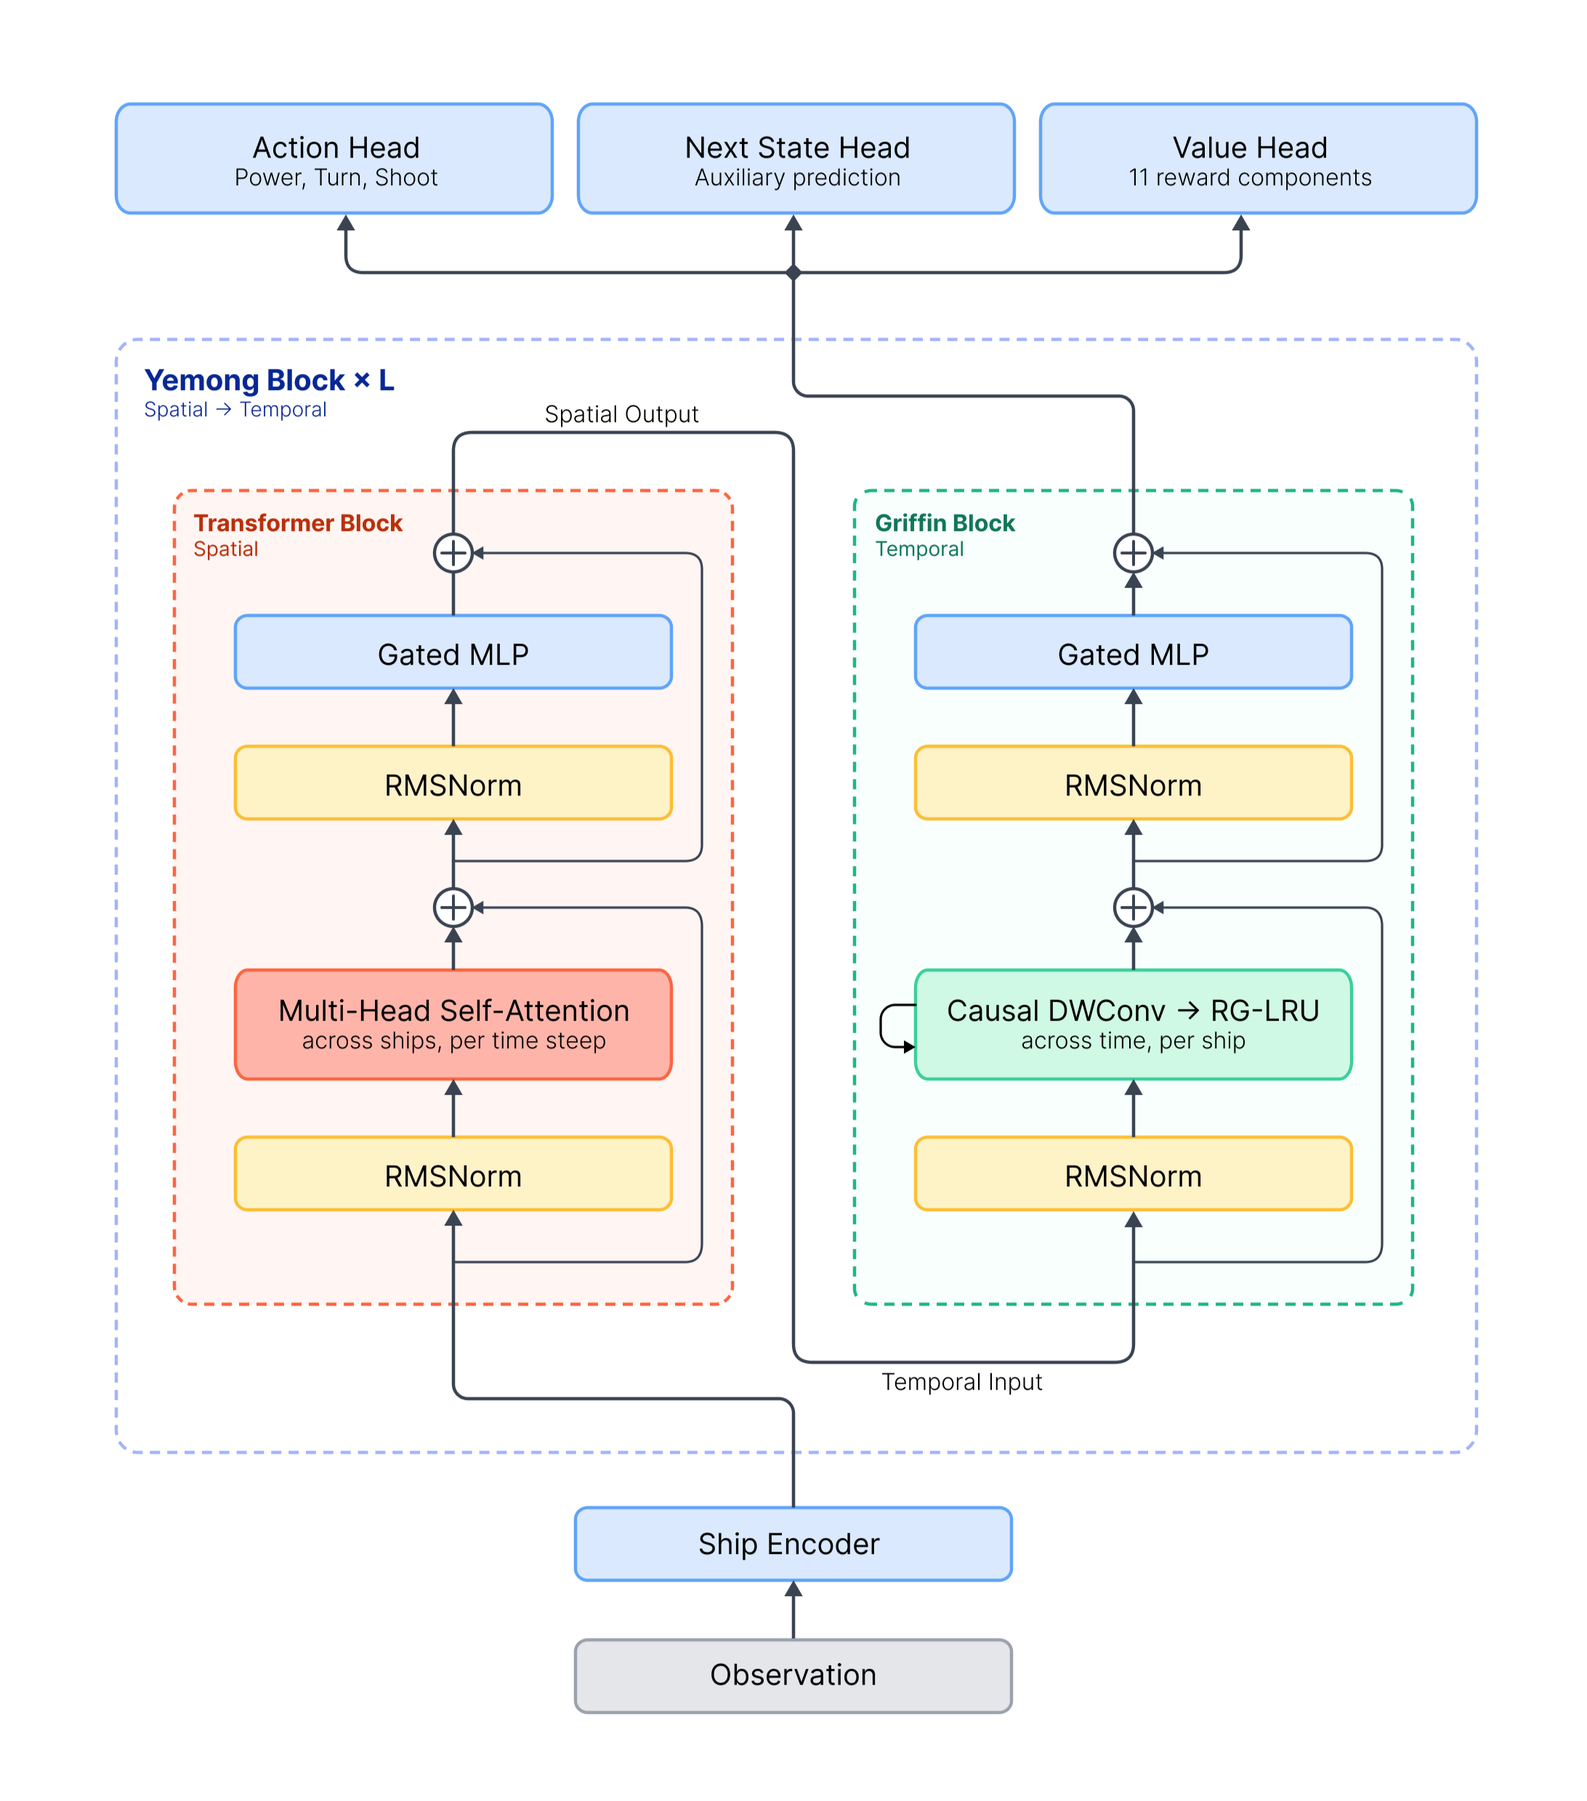
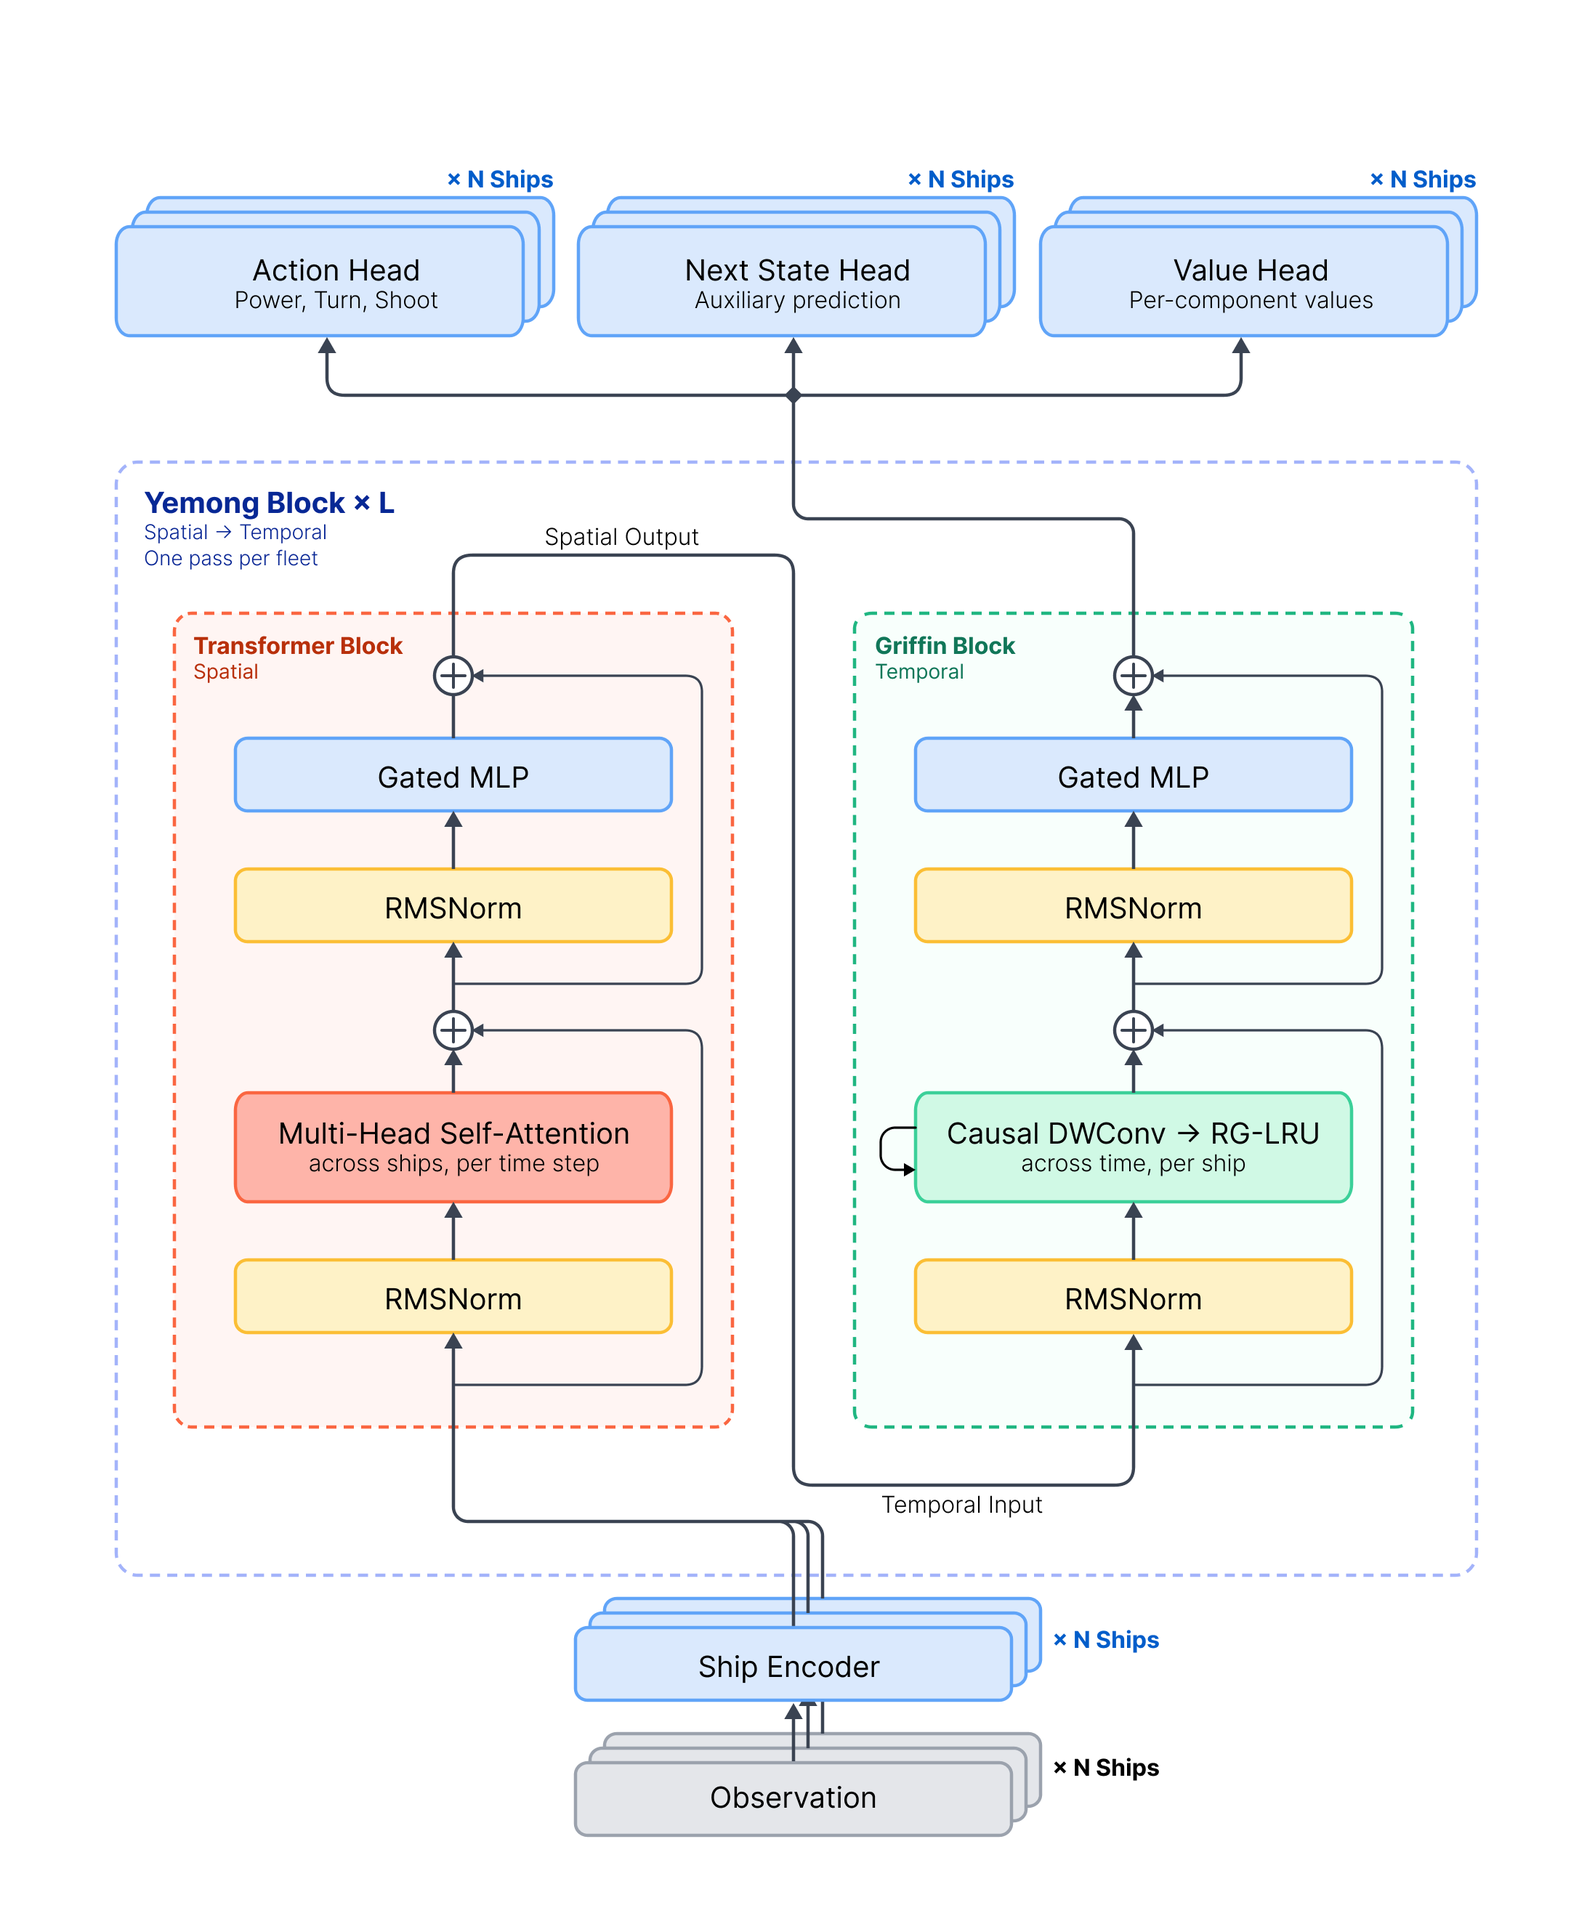
eval: condition the calibration tournament and pin its endpoint
The calibration field now includes the semi-random reference rungs
(scripted-action probability 0.2-0.95) and the run's final checkpoint.
The rungs repair the field's weakest link — random previously connected
to every other player only through near-certain games — and the final
checkpoint gives the calibrated curve's endpoint a full tournament rating
instead of resting on the last update's 627-game online record.

Rung labels are shared with the semi_random mode (semi_random_label moved
into elo_calibrate). The history writer now places step-bearing players
without a training rating (the final checkpoint) on the step axis, and the
README Elo curve scatters tournament-rated checkpoints (surface-ringed
markers, +/-1 SE bars, same-hue darker step) on top of the refit line.

Also embeds the revised architecture diagram (per-ship stacks, count-
agnostic value head) in the README's Under the hood section.

Changed region(s): [[0.0623, 0.0311, 0.9341, 0.7455], [0.2802, 0.7455, 0.7161, 0.9629]]

diff --git a/src/boost_and_broadside/modes/elo_calibrate.py b/src/boost_and_broadside/modes/elo_calibrate.py
@@ -44,6 +44,7 @@ from pathlib import Path
 import numpy as np
 import torch
 
+from boost_and_broadside.agents.semi_random_scripted import SemiRandomScriptedAgent
 from boost_and_broadside.agents.stochastic_config import StochasticAgentConfig
 from boost_and_broadside.agents.stochastic_scripted import StochasticScriptedAgent
 from boost_and_broadside.config import EloCalibrateConfig, EnvConfig, ModelConfig, ShipConfig
@@ -220,6 +221,16 @@ def _load_ladder_policy(
     return policy
 
 
+def semi_random_label(probability: float) -> str:
+    """Canonical player label for a scripted-action mixture probability."""
+    if probability == 0.0:
+        return "random"
+    if probability == 1.0:
+        return "scripted"
+    digits = f"{probability:.4f}".rstrip("0").rstrip(".").replace(".", "p")
+    return f"semi_scripted_{digits}"
+
+
 def build_players(
     run_dir: Path,
     roster: dict,
@@ -227,18 +238,36 @@ def build_players(
     ship_config: ShipConfig,
     num_ships: int,
     device: str,
+    reference_probabilities: tuple[float, ...] = (),
 ) -> list[Player]:
-    """Assemble the tournament field: random, the scripted agent, every ladder snapshot.
+    """Assemble the tournament field.
 
-    The random anchor comes first so it can serve as the rating gauge. Only
-    agents the live policy actually played are included — every extra player
-    dilutes the batch budget without informing the curve being calibrated.
+    The field is random, the scripted controller, optional semi-random reference
+    rungs between them, every ladder snapshot, and the run's final checkpoint.
+    The random anchor comes first so it can serve as the fallback rating gauge.
+    The rungs cost batch budget but repair the field's weakest link: without
+    them, random connects to everything else only through near-certain games.
+    The final checkpoint is included so the endpoint of the calibrated curve is
+    pinned by a full tournament rating rather than only by the last update's
+    online record.
     """
     players = [Player("random", ResolvedAgent("random", None), 0.0, 0)]
     scripted = StochasticScriptedAgent(ship_config, StochasticAgentConfig())
     players.append(Player("scripted", ResolvedAgent("scripted", scripted), None, None))
 
+    # One shared scripted instance lets play_batch compute the scripted action
+    # once per step for every rung.
+    for probability in sorted(reference_probabilities):
+        assert 0.0 < probability < 1.0, (
+            f"reference probability {probability} duplicates the random/scripted endpoints"
+        )
+        agent = SemiRandomScriptedAgent(ship_config, probability, scripted_agent=scripted)
+        players.append(
+            Player(semi_random_label(probability), ResolvedAgent("semi_random", agent), None, None)
+        )
+
     entries = [e for e in roster["entries"] if e["kind"] == "checkpoint"]
+    ladder_steps = set()
     for entry in sorted(entries, key=lambda e: e["global_step"]):
         path = Path(entry["path"])
         if not path.exists():  # roster may outlive a pruned file
@@ -247,11 +276,22 @@ def build_players(
             print(f"  [warn] missing ladder snapshot for {entry['label']}, skipping")
             continue
         policy = _load_ladder_policy(path, model_config, ship_config, num_ships, device)
+        ladder_steps.add(int(entry["global_step"]))
         players.append(
             Player(
                 entry["label"], ResolvedAgent("policy", policy), entry["elo"], entry["global_step"]
             )
         )
+
+    final_checkpoints = sorted(run_dir.glob("step_*.pt"))
+    if final_checkpoints:
+        final_path = final_checkpoints[-1]
+        final_step = int(final_path.stem.removeprefix("step_"))
+        if final_step not in ladder_steps:
+            policy = _load_ladder_policy(final_path, model_config, ship_config, num_ships, device)
+            players.append(
+                Player(f"ckpt_{final_step}", ResolvedAgent("policy", policy), None, final_step)
+            )
     return players
 
 
@@ -773,7 +813,13 @@ def run_elo_calibrate_mode(
         ladder_count = sum(1 for e in roster["entries"] if e["kind"] == "checkpoint")
         progress.stage(f"loading {ladder_count} ladder snapshots...")
         players = build_players(
-            run_dir, roster, model_config, ship_config, env_config.num_ships, device
+            run_dir,
+            roster,
+            model_config,
+            ship_config,
+            env_config.num_ships,
+            device,
+            reference_probabilities=config.reference_probabilities,
         )
         progress.done(f"field ({len(players)}): {', '.join(p.label for p in players)}")
         anchor = next(i for i, p in enumerate(players) if p.label == "random")

diff --git a/src/boost_and_broadside/viz/charts.py b/src/boost_and_broadside/viz/charts.py
@@ -30,6 +30,22 @@ class Line:
 
 
 @dataclass
+class Points:
+    """Scattered measurements over the same axes: steps, values, ±1 SE, name.
+
+    Drawn as surface-ringed markers with error bars, so precise point
+    measurements (e.g. tournament-rated checkpoints) can sit on top of a
+    continuous estimate of the same quantity. ``yerr`` may contain NaN where no
+    error is known; those points draw without a bar.
+    """
+
+    x: np.ndarray
+    y: np.ndarray
+    yerr: np.ndarray
+    label: str
+
+
+@dataclass
 class Panel:
     """One metric's worth of a grid: its lines and how to scale/label them."""
 
@@ -96,6 +112,7 @@ def trend(
     log_y: bool = False,
     percent: bool = False,
     reference_lines: list[tuple[str, float]] | None = None,
+    points: Points | None = None,
     size: tuple[float, float] = (10.0, 5.8),
 ) -> Path:
     """One metric over training as a standalone figure."""
@@ -105,6 +122,31 @@ def trend(
         axes, lines, title=title, subtitle=subtitle, ylabel=ylabel,
         log_y=log_y, percent=percent, reference_lines=reference_lines,
     )
+    if points is not None and points.x.size:
+        # Same hue family as the single-series line, one lightness step darker;
+        # identity additionally rests on the mark itself (ringed dot + error bar
+        # vs line), and the legend names both series.
+        if len(lines) == 1 and lines[0].label:
+            # The scatter makes this a two-series chart: name both, line first.
+            axes.plot([], [], color=style.BLUE, linewidth=2.0, label=lines[0].label)
+        axes.errorbar(
+            points.x / _MILLION,
+            points.y,
+            yerr=np.where(np.isfinite(points.yerr), points.yerr, 0.0),
+            fmt="o",
+            markersize=6.5,
+            color=style.SHADE_DARK,
+            ecolor=style.SHADE_DARK,
+            elinewidth=1.4,
+            capsize=3.0,
+            markeredgecolor=style.SURFACE,
+            markeredgewidth=1.5,
+            zorder=5,
+            label=points.label,
+        )
+        axes.legend(
+            frameon=False, labelcolor=style.INK_SECONDARY, fontsize=10, loc="lower right"
+        )
     # Place direct labels last, after a draw settles the scale and limits —
     # label_series_ends maps data to axes-fraction, wrong if the y-scale (log) or
     # autoscaled limits are not yet final.

diff --git a/tests/modes/test_elo_calibrate.py b/tests/modes/test_elo_calibrate.py
@@ -227,3 +227,35 @@ class TestRefit:
             by_label = {p["label"]: p["calibrated_elo"] for p in result["players"]}
             gaps.append(by_label["ckpt_100"] - by_label["random"])
         assert gaps[0] == pytest.approx(gaps[1], abs=2.0)
+
+
+class TestBuildPlayersField:
+    def test_reference_rungs_sit_between_the_endpoints(self, tmp_path):
+        """Rungs are sorted, labeled canonically, and never duplicate the
+        random/scripted endpoint players."""
+        from boost_and_broadside.modes.elo_calibrate import build_players
+
+        players = build_players(
+            tmp_path, {"entries": []}, None, ShipConfig(), 8, "cpu",
+            reference_probabilities=(0.5, 0.2),
+        )
+        assert [p.label for p in players] == [
+            "random", "scripted", "semi_scripted_0p2", "semi_scripted_0p5",
+        ]
+        assert all(p.agent.kind == "semi_random" for p in players[2:])
+
+    def test_endpoint_probability_is_rejected(self, tmp_path):
+        from boost_and_broadside.modes.elo_calibrate import build_players
+
+        with pytest.raises(AssertionError):
+            build_players(
+                tmp_path, {"entries": []}, None, ShipConfig(), 8, "cpu",
+                reference_probabilities=(0.0,),
+            )
+
+    def test_rung_labels_match_the_semi_random_mode(self):
+        from boost_and_broadside.modes.elo_calibrate import semi_random_label
+
+        assert semi_random_label(0.0) == "random"
+        assert semi_random_label(1.0) == "scripted"
+        assert semi_random_label(0.95) == "semi_scripted_0p95"

diff --git a/scripts/render_charts.py b/scripts/render_charts.py
@@ -12,8 +12,10 @@ Usage:
 import argparse
 from pathlib import Path
 
+import numpy as np
+
 from boost_and_broadside.viz import charts, history
-from boost_and_broadside.viz.charts import Line, Panel
+from boost_and_broadside.viz.charts import Line, Panel, Points
 
 DEFAULT_RUN = "resilient-resonance-682"
 
@@ -54,12 +56,20 @@ def render(run: str, out_dir: Path) -> list[Path]:
     elo_references = (
         [("scripted controller", float(scripted))] if history._finite(scripted) else None
     )
+    # Tournament-rated checkpoints sit on the refit curve as precise points;
+    # the last one pins the curve's endpoint.
+    ckpt_steps, ckpt_ratings, ckpt_stderr = history.checkpoint_points(calib_summary)
+    checkpoints = Points(
+        np.asarray(ckpt_steps), np.asarray(ckpt_ratings), np.asarray(ckpt_stderr),
+        "tournament-rated checkpoints (±1 SE)",
+    )
 
     written = [
         charts.trend(
-            [_line(calib_rows, "ladder/elo/live", "Elo")], out_dir / "elo_curve.png",
+            [_line(calib_rows, "ladder/elo/live", "live policy (refit)")],
+            out_dir / "elo_curve.png",
             title="Calibrated Elo over training", ylabel="Elo (scripted = 1000)",
-            reference_lines=elo_references,
+            reference_lines=elo_references, points=checkpoints,
         ),
         charts.trend(
             [_line(wandb_rows, "overview/win_rate_vs_scripted", "vs scripted")],

diff --git a/src/boost_and_broadside/modes/elo_calibrate_history.py b/src/boost_and_broadside/modes/elo_calibrate_history.py
@@ -63,8 +63,10 @@ def to_history_rows(result: dict) -> list[dict]:
     for player in result.get("players", []):
         step = player.get("global_step")
         # Random is a fixed reference player, not a ladder rung; scripted and
-        # other non-timeline agents have no step. None belongs on the step axis.
-        if step is None or player.get("training_elo") is None or player["label"] == "random":
+        # the semi-random rungs have no step. None belongs on the step axis.
+        # The run's final checkpoint has a step but no training rating (it was
+        # never a roster entry), and does belong: it pins the curve's endpoint.
+        if step is None or player["label"] == "random":
             continue
         row = row_at(step)
         _put(row, f"ladder/elo/ckpt_{int(step)}", player.get("calibrated_elo"))
@@ -91,7 +93,7 @@ def to_summary(result: dict) -> dict:
             _put(summary, "elo/scripted", calibrated)
             continue
         step = player.get("global_step")
-        if step is None or player.get("training_elo") is None or label == "random":
+        if step is None or label == "random":
             continue
         _put(summary, f"ladder/elo/ckpt_{int(step)}", calibrated)
         _put(summary, f"ladder/elo/ckpt_{int(step)}_stderr", player.get("stderr"))

diff --git a/tests/modes/test_elo_calibrate_history.py b/tests/modes/test_elo_calibrate_history.py
@@ -97,3 +97,19 @@ class TestToSummary:
         assert summary["converged"] is True
         assert summary["target_stderr"] == 10.0
         assert summary["anchor_offset_stderr"] == 42.0
+
+
+class TestFinalCheckpointInclusion:
+    def test_step_bearing_player_without_training_rating_lands_on_the_axis(self):
+        """The run's final checkpoint was never a roster entry, so it has no
+        training rating — but its tournament rating pins the curve's endpoint."""
+        result = _result()
+        result["players"].append(
+            {"label": "ckpt_999", "training_elo": None, "calibrated_elo": 1810.0,
+             "stderr": 4.0, "global_step": 999}
+        )
+        row = next(r for r in to_history_rows(result) if r["_step"] == 999)
+        assert row["ladder/elo/ckpt_999"] == 1810.0
+        summary = to_summary(result)
+        assert summary["ladder/elo/ckpt_999"] == 1810.0
+        assert summary["_step"] == 999

diff --git a/src/boost_and_broadside/modes/semi_random_tournament.py b/src/boost_and_broadside/modes/semi_random_tournament.py
@@ -19,6 +19,7 @@ from boost_and_broadside.modes.elo_calibrate import (
     Progress,
     Tournament,
     _load_run_config,
+    semi_random_label,
 )
 from boost_and_broadside.modes.elo_scale import parallel_envs_for, rating_views
 from boost_and_broadside.modes.elo_stats import find_run_dir
@@ -43,13 +44,9 @@ def parse_probabilities(text: str) -> list[float]:
     return probabilities
 
 
-def _label(probability: float) -> str:
-    if probability == 0.0:
-        return "random"
-    if probability == 1.0:
-        return "scripted"
-    digits = f"{probability:.4f}".rstrip("0").rstrip(".").replace(".", "p")
-    return f"semi_scripted_{digits}"
+# Player naming is shared with the calibration tournament so a rung carries the
+# same label whichever mode rated it.
+_label = semi_random_label
 
 
 def _greatest_divisor_at_most(value: int, maximum: int) -> int:

diff --git a/src/boost_and_broadside/config/training.py b/src/boost_and_broadside/config/training.py
@@ -58,6 +58,11 @@ class EloCalibrateConfig:
     # Virtual decisive games per player, split for and against the anchor.
     # Keeps a player that never loses from having an infinite rating.
     prior_games: float = 1.0
+    # Interior semi-random reference rungs added to the tournament field, as
+    # scripted-action probabilities in (0, 1). They connect random to scripted
+    # through informative matchups instead of one near-deterministic link,
+    # tightening the weak end of the scale. Empty disables the ladder.
+    reference_probabilities: tuple[float, ...] = ()
 
 
 @dataclass(frozen=True)

diff --git a/runs/shared.py b/runs/shared.py
@@ -49,6 +49,9 @@ ELO_CALIBRATE = EloCalibrateConfig(
     target_stderr=10.0,
     max_batches=12,
     prior_games=1.0,
+    # Matches the refined semi-random ladder (0 and 1 are the random and
+    # scripted players themselves).
+    reference_probabilities=(0.2, 0.3, 0.4, 0.5, 0.6, 0.7, 0.8, 0.9, 0.95),
 )
 
 # Reward weights shared by all training profiles.

diff --git a/README.md b/README.md
@@ -60,6 +60,12 @@ procedure, exact values, and uncertainty.
 
 ## Under the hood
 
+![YemongPolicy architecture: entity tokens through spatial attention and temporal recurrence to per-ship heads](docs/policy_architecture.png)
+
+One trunk processes the whole fleet as entity tokens — attention mixes across ships
+within a timestep, Griffin recurrence carries each ship through time — and every head
+emits one output per ship, however many there are.
+
 - The [environment and physics engine](docs/environment.md) runs thousands of tensorized
   battles in parallel, with toroidal movement, projectiles, resources, and orbital
   obstacles. The core simulator lives in
